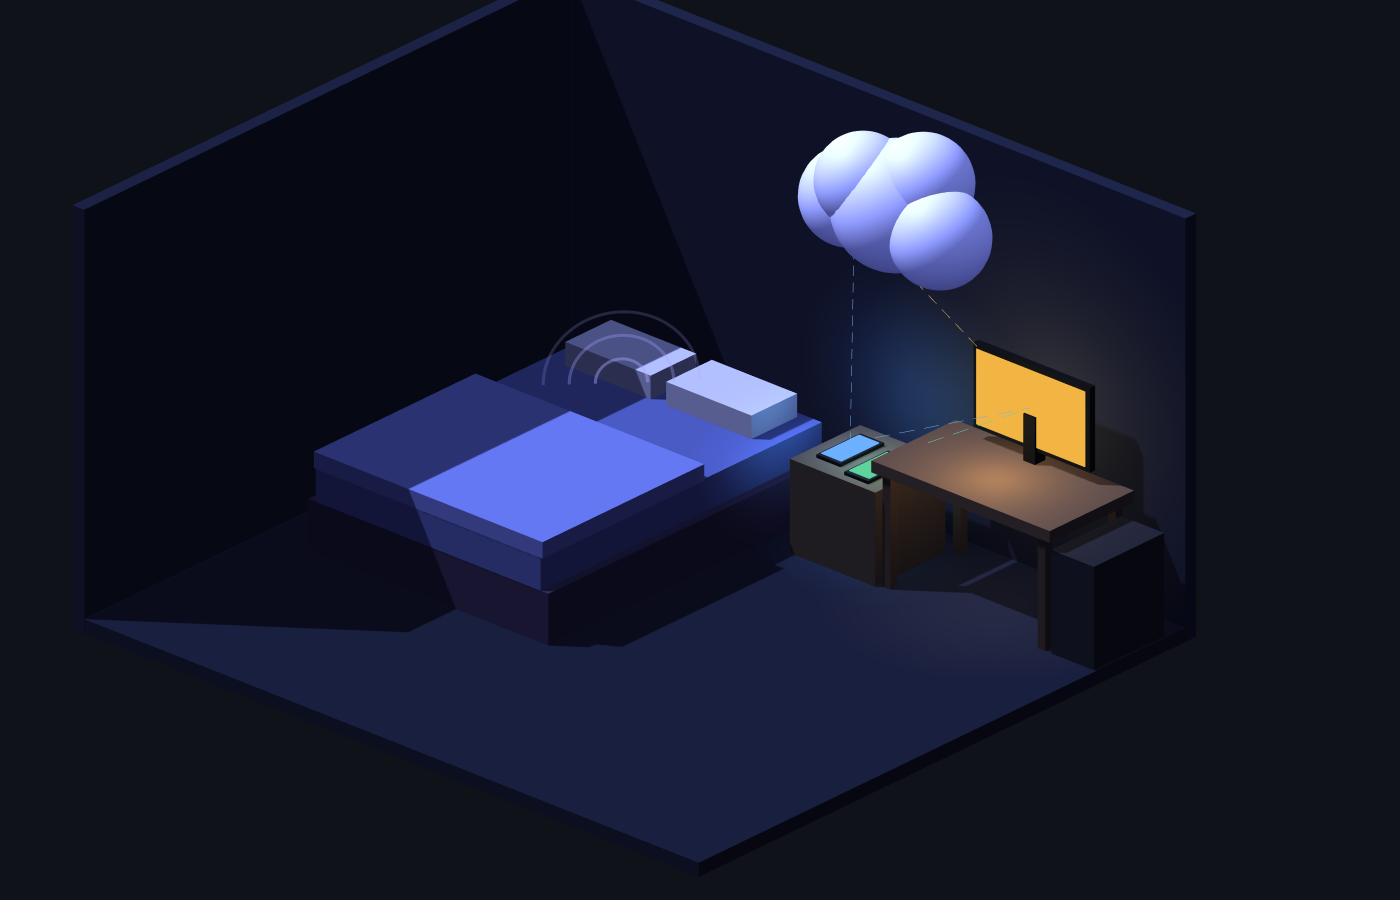
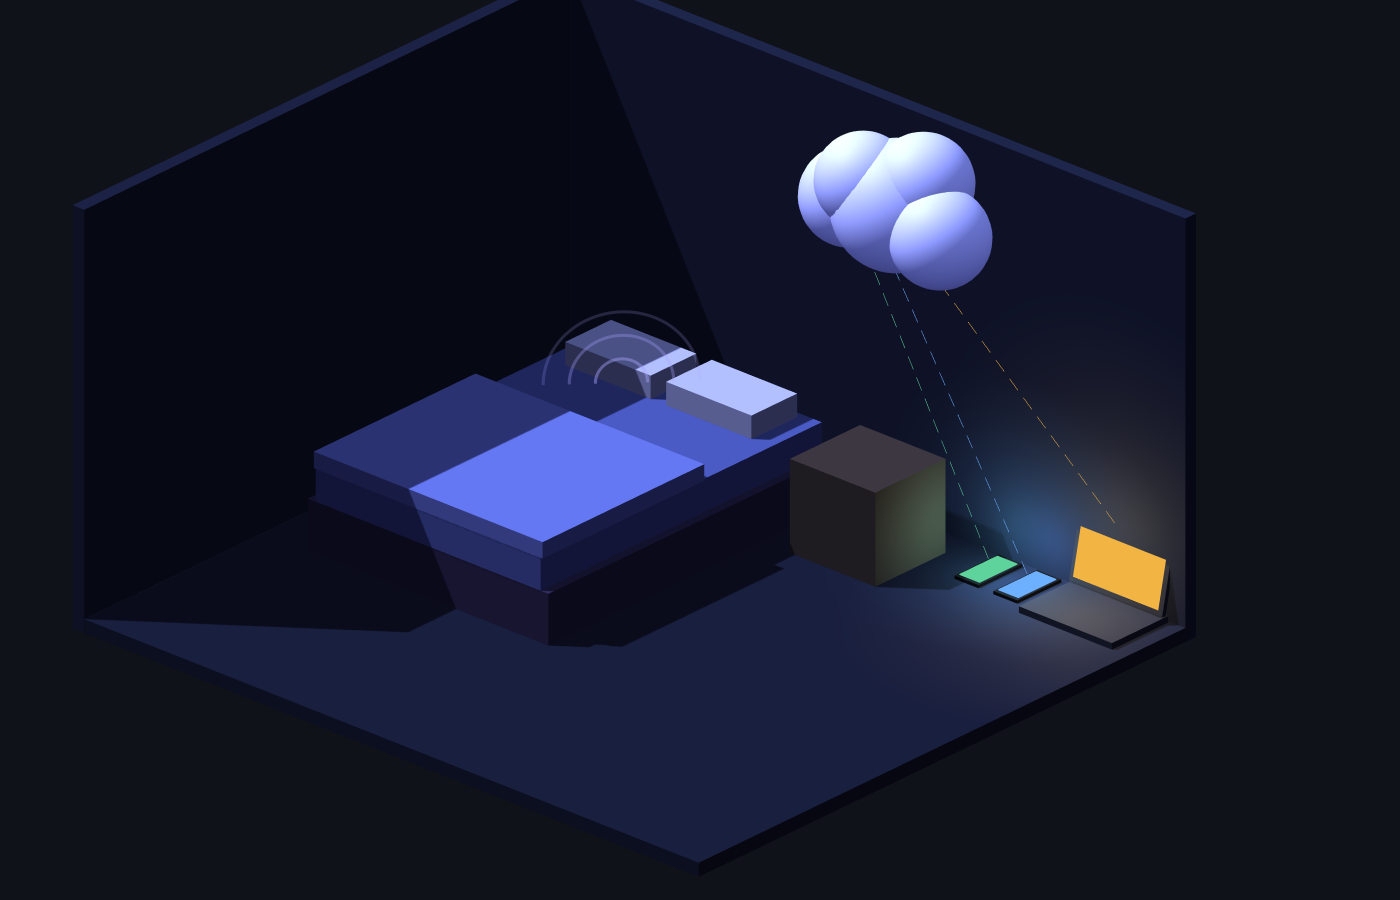
Scena 3D com'e' davvero (PC e telefoni per terra nell'angolo), affiancata alla foto

Changed region(s): [[0.5221, 0.3422, 0.86, 0.7467]]

diff --git a/README.md b/README.md
@@ -6,7 +6,9 @@ riascoltare la notte sullo spettrogramma ed etichettare i suoni in pochi secondi
 
 > Progetto personale, in sviluppo. Non è un dispositivo medico.
 
-![Una notte, tre registratori](esempi/scena_3d.png)
+| Di notte: il PC per terra nell'angolo, i due telefoni accanto | I tre dispositivi durante una calibrazione |
+|---|---|
+| ![Scena 3D](esempi/scena_3d.png) | ![Foto vera](esempi/foto_dispositivi.jpg) |
 
 ### La Mini App: mini mappa della notte in alto, spettrogramma sotto
 
@@ -45,10 +47,6 @@ i picchi e si capisce **da dove viene** (il russare dal letto, il traffico dalla
 ![Animazione: le posizioni si assestano](esempi/triangolazione/5_animazione.gif)
 
 ([video mp4](esempi/triangolazione/5_animazione.mp4))
-
-La disposizione vera, durante una calibrazione (schermo ed etichette sfocati):
-
-<img src="esempi/foto_dispositivi.jpg" width="520" alt="Telefoni e PC durante una calibrazione">
 
 ### Analisi della notte (schede del concept, notti finte)
 
